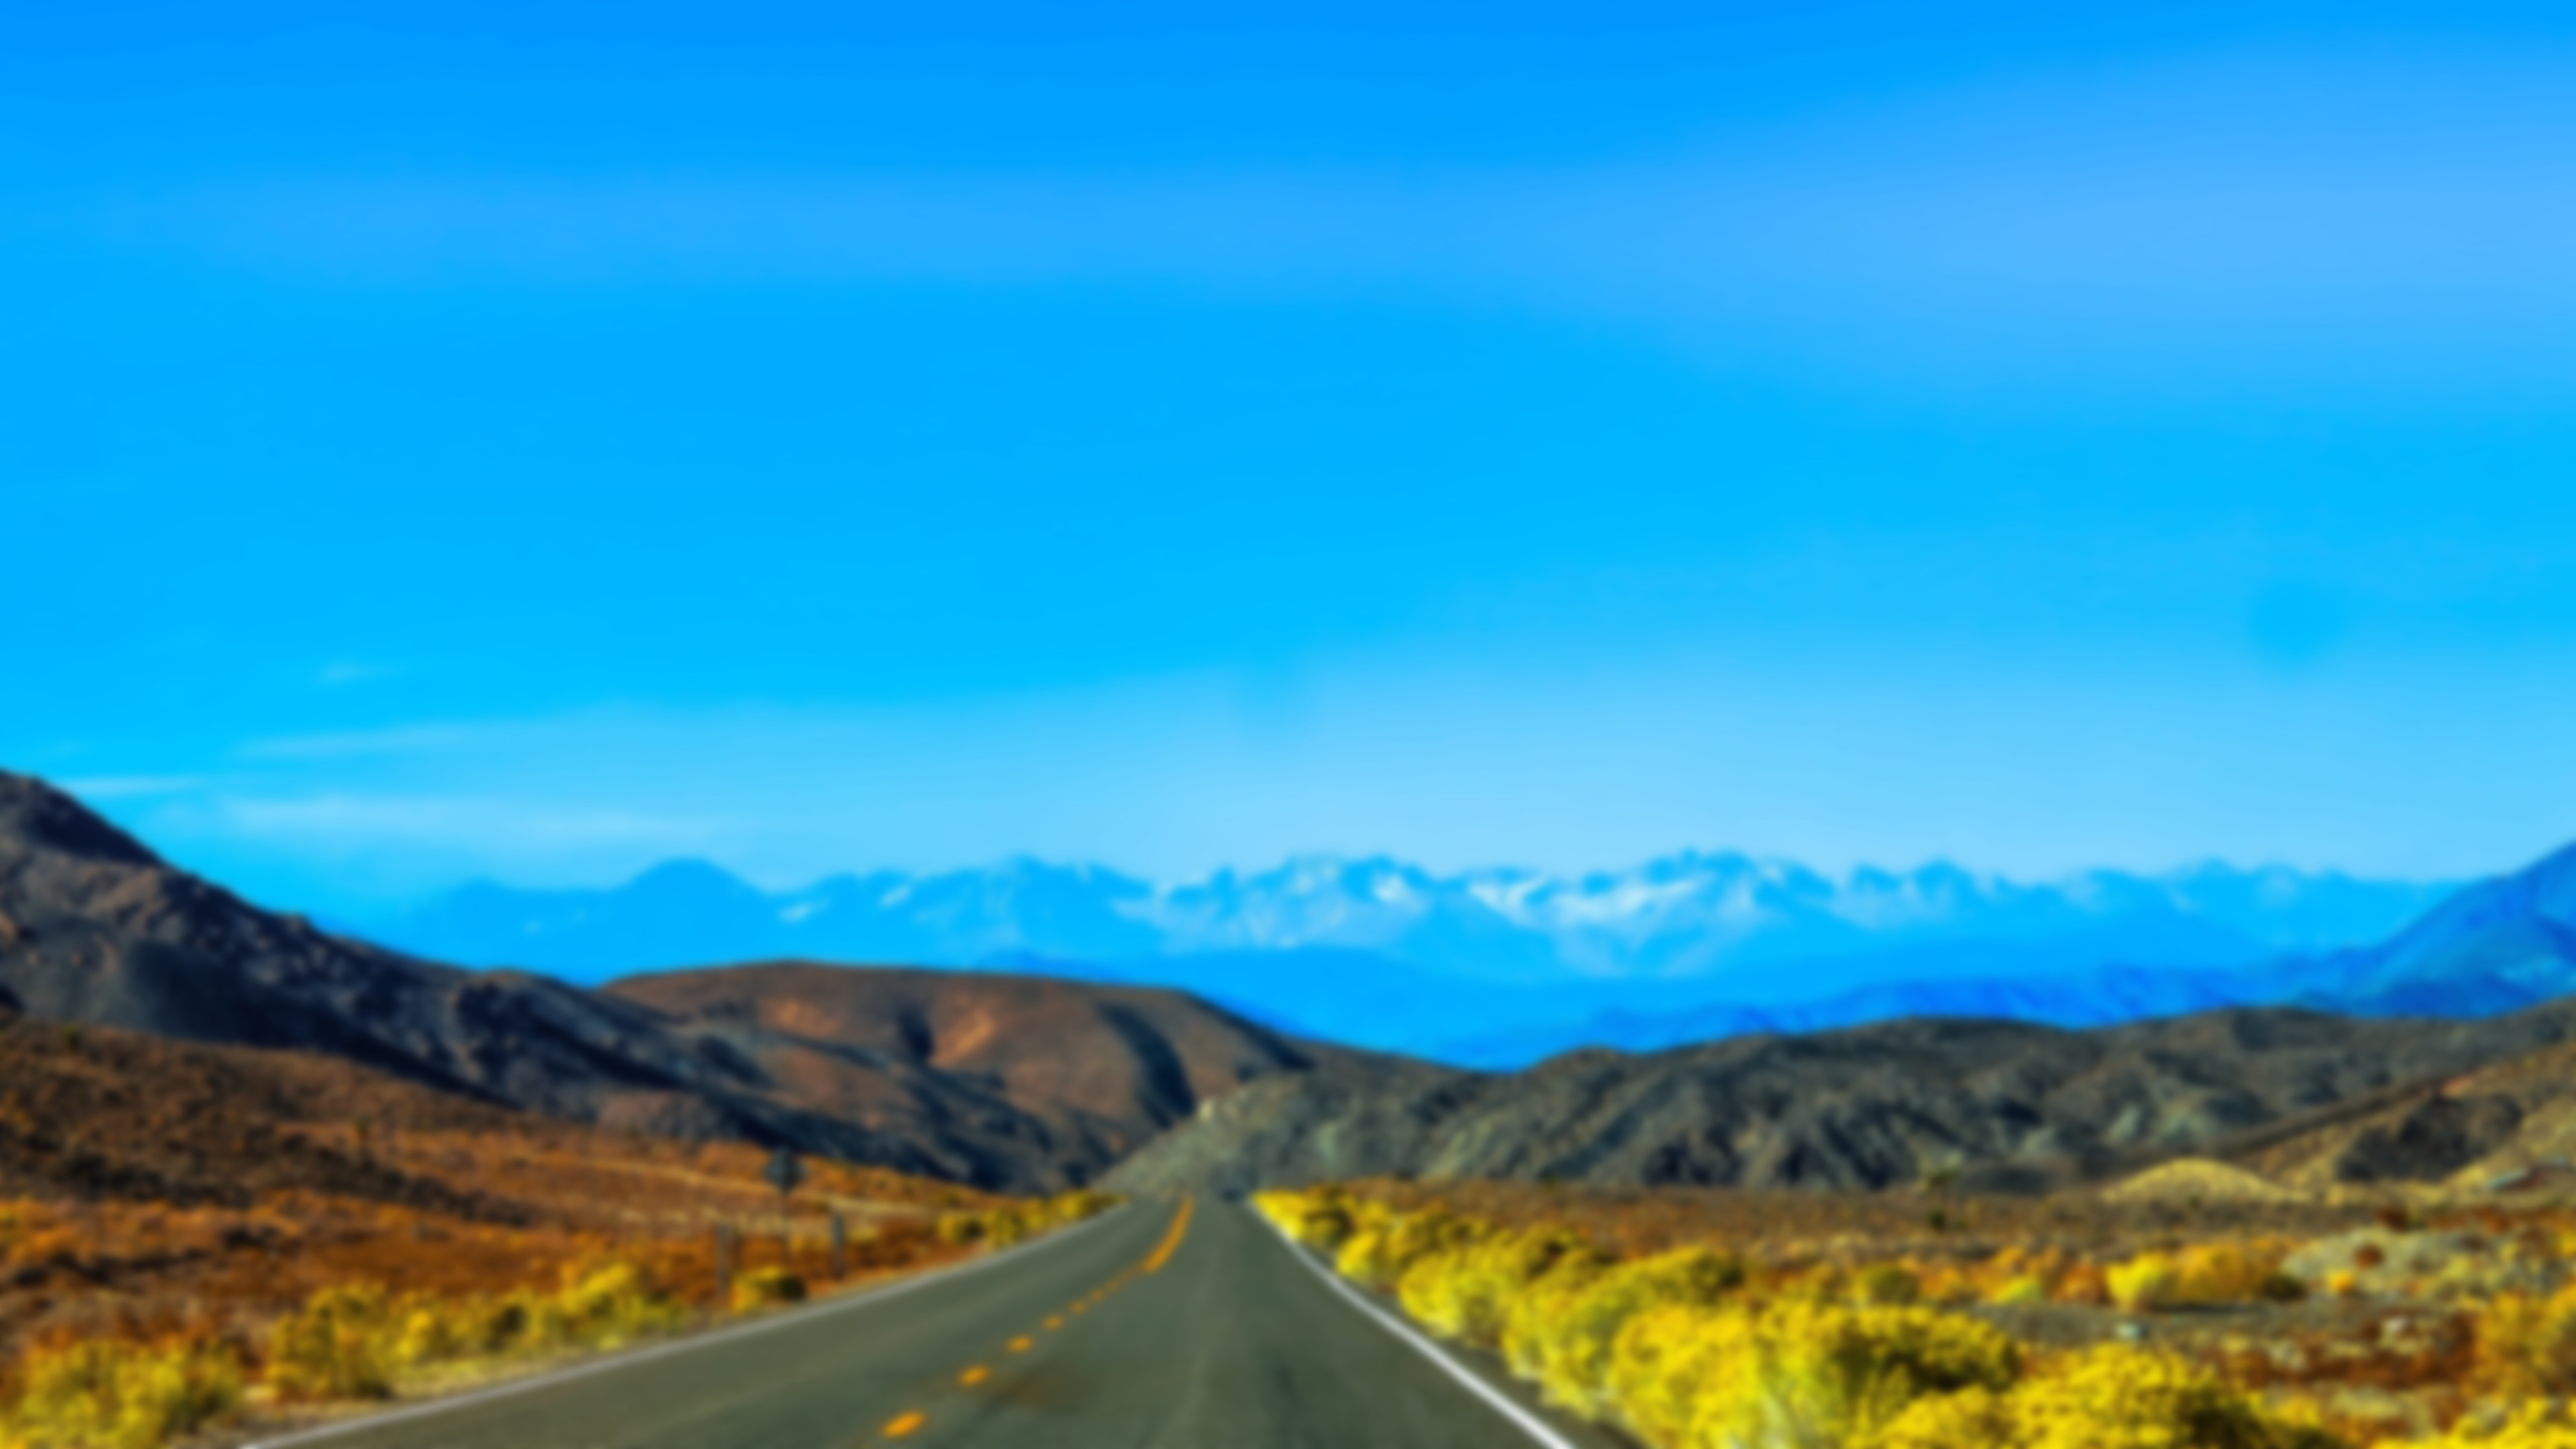
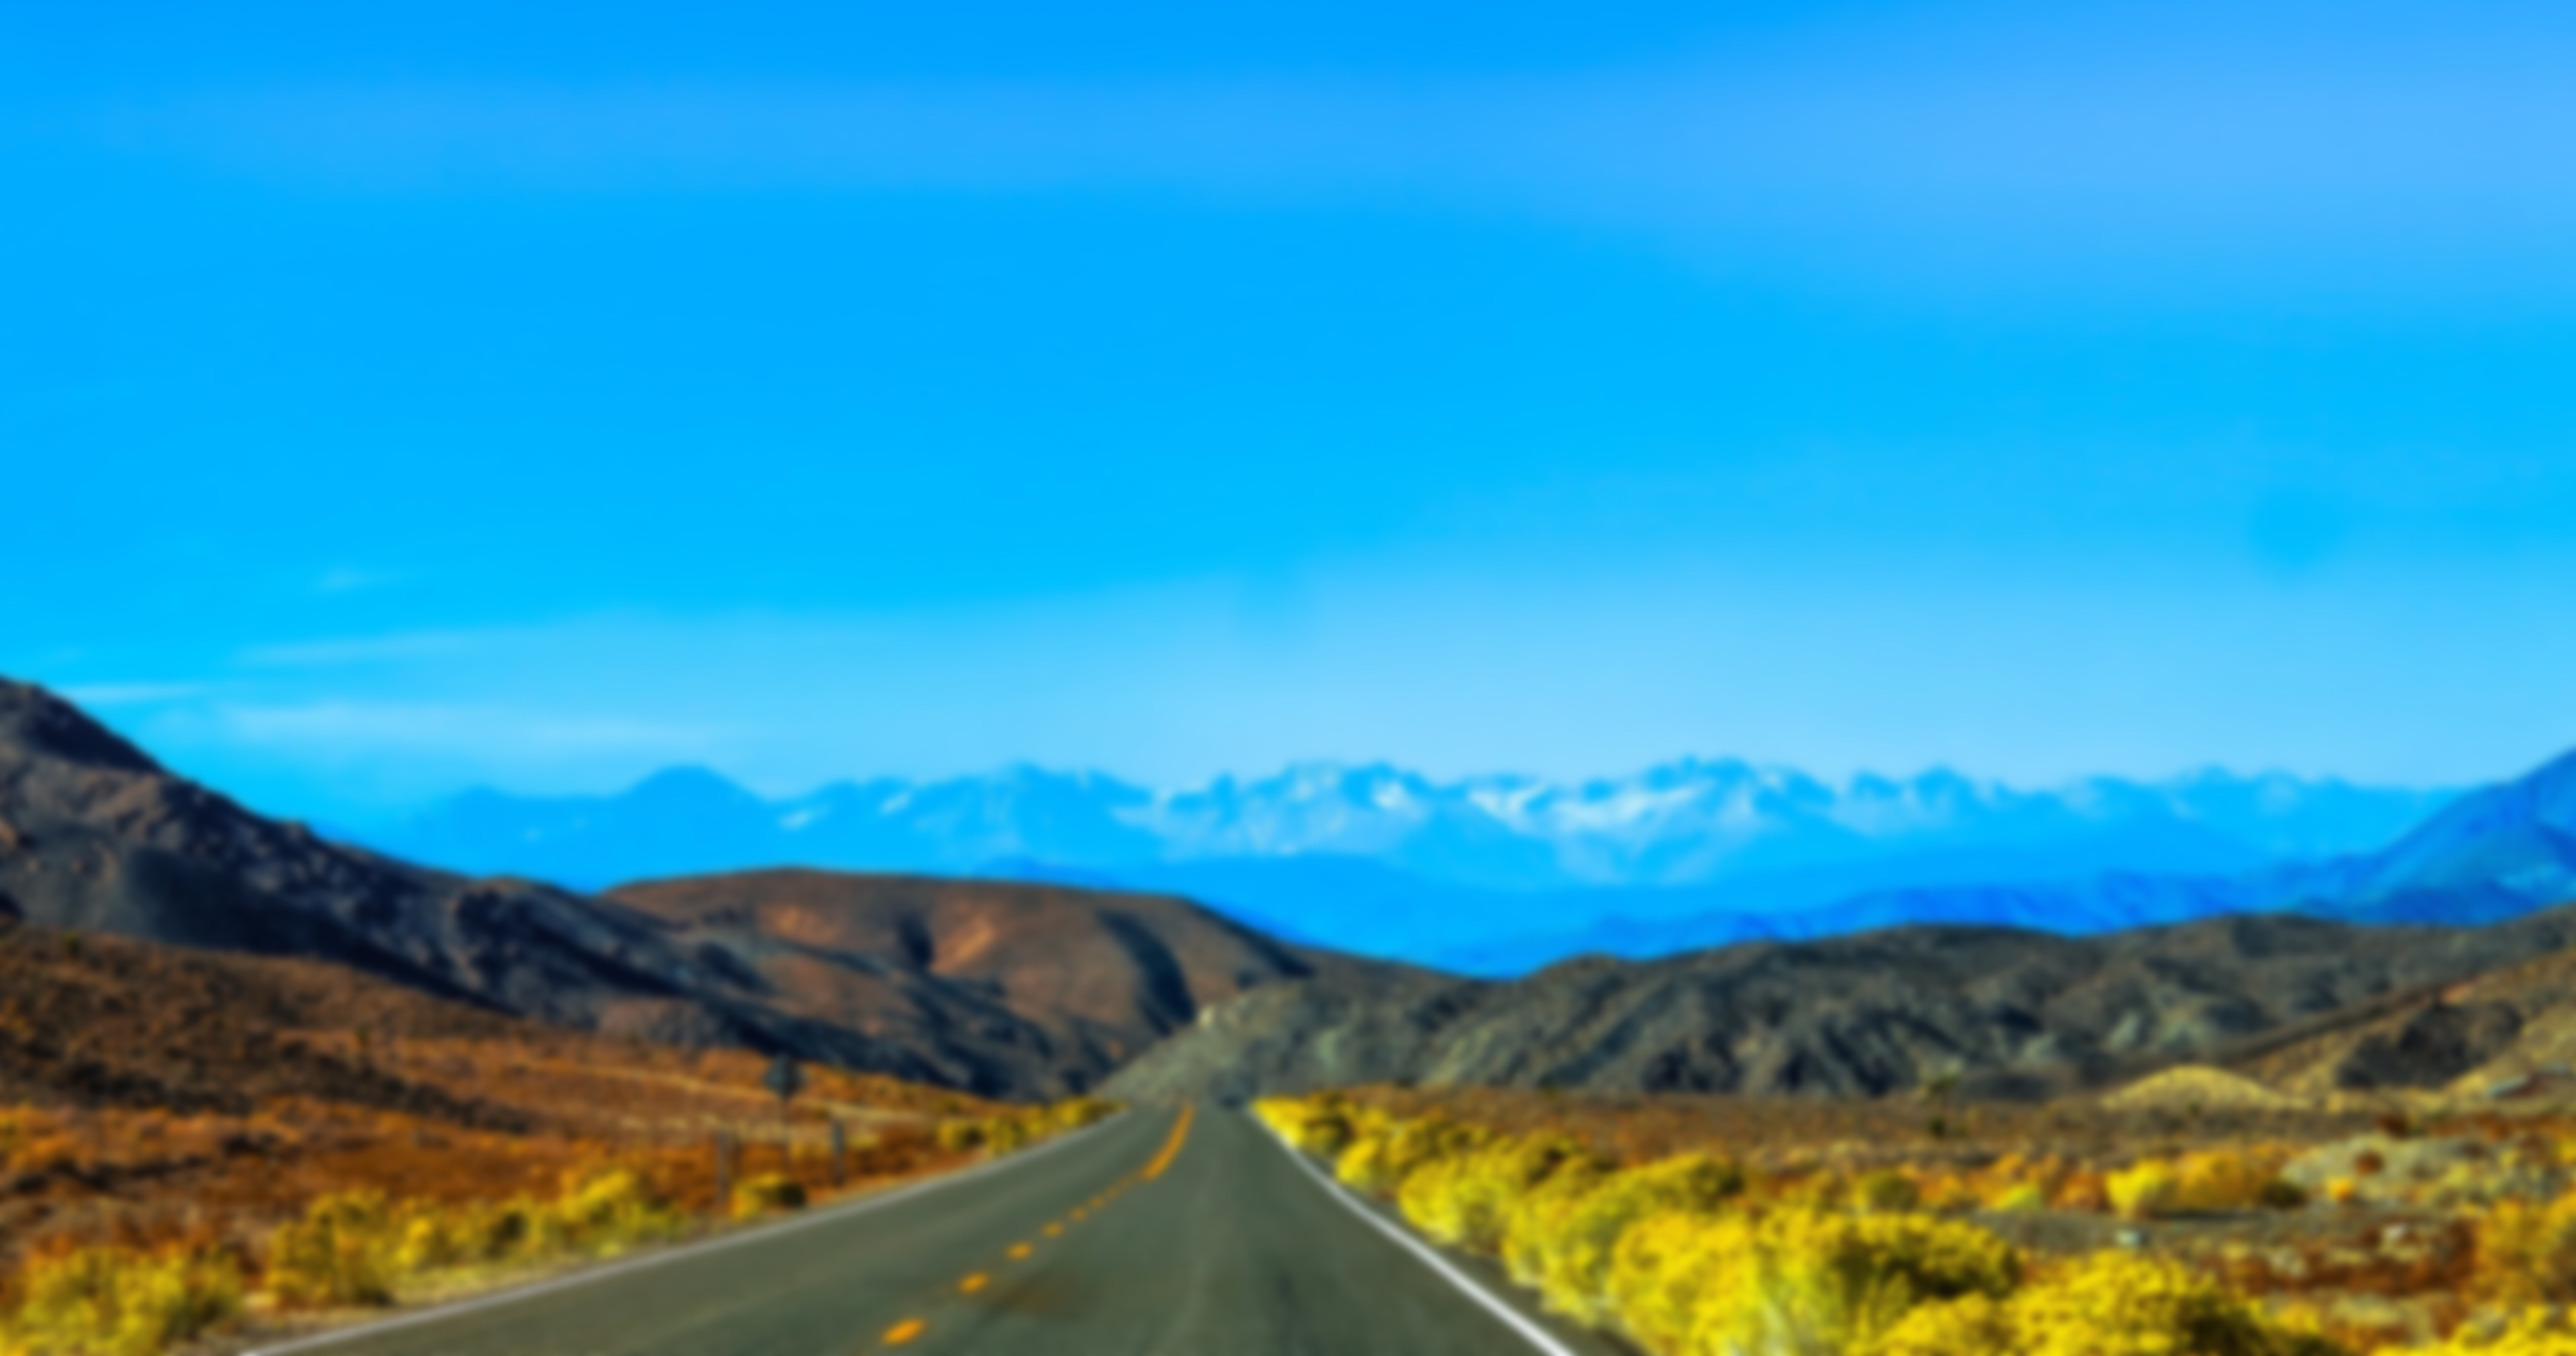
updated about jumbotron

diff --git a/about.html b/about.html
@@ -89,9 +89,15 @@
 
     <!-- TODO -->
     <main class="container-fluid px-0">
+        <div class="jumbotron jumbotron-fluid" id="jumbotron_about">
+            <!-- <img class="img-fluid" src="assets/img/highway_landscape_blurred.jpg" alt="A Learning Highway"/> -->
+            <div class="container text-light">
+                <h1 class="display-4">A Community for Learning</h1>
+                <p class="lead">This is a modified jumbotron that occupies the entire horizontal space of its parent.</p>                
+            </div>
+        </div>
         <div class="row">
             <div class="col-xs-12 col-md-12">
-                <img class="img-fluid" src="assets/img/highway_landscape_blurred.jpg" alt="A Learning Highway"/>
             </div>
             <div class="position-absolute pt-5" style="width: 100%;">
                 <h1 class="text-center algin-middle text-light">A community for learning.</h1>

diff --git a/assets/styles/style.css b/assets/styles/style.css
@@ -156,3 +156,8 @@ h1, h3 {
     border-width: 1px;
     margin-bottom: 1rem;
 }
+
+#jumbotron_about {
+    background-image: url("../img/highway_landscape_blurred.jpg");
+    background-size: cover;
+}
